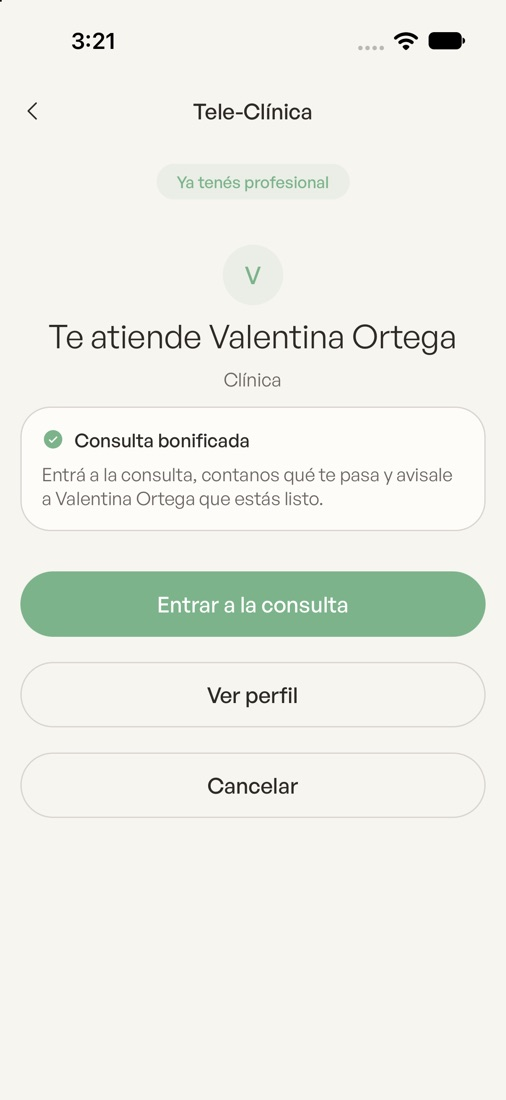
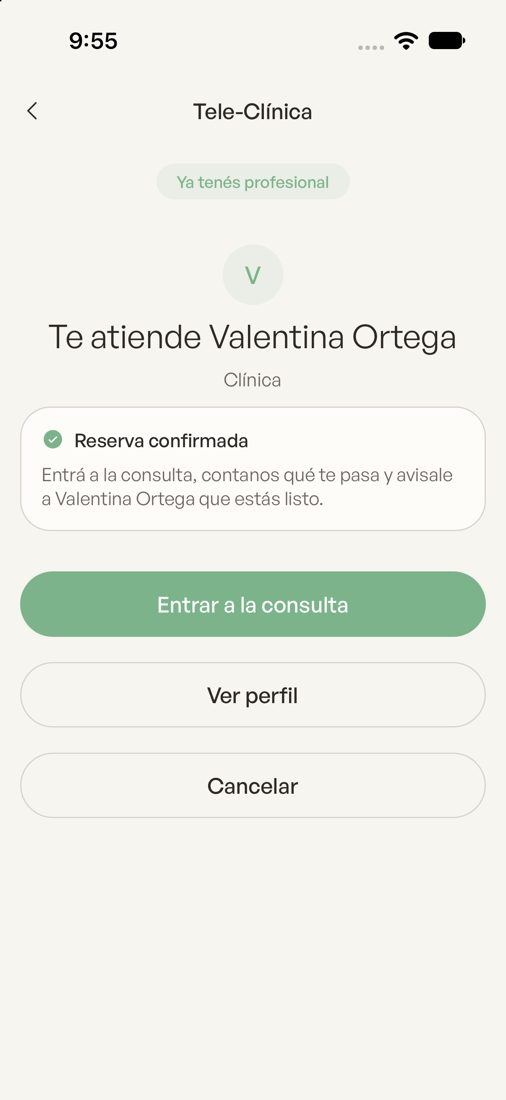
docs(teleclinica): capturas con la reserva real y los detalles ya arreglados
Claude-Session: https://claude.ai/code/session_01PvWM724CxrJ2Hebw8LCkz5

diff --git a/public/docs/healthier-teleclinica.html b/public/docs/healthier-teleclinica.html
@@ -354,12 +354,12 @@ h2.st .ad{color:var(--danger)}
     <div class="txt">
       <div class="who-row"><span class="role pac">Paciente · app</span></div>
       <h2 class="st">Te atiende<br>la <span class="a">Dra.</span></h2>
-      <p class="lead">Apenas un profesional acepta, la pantalla cambia sola: <strong>"Te atiende Valentina Ortega"</strong>, con su foto (o sus iniciales si no cargó una) y la especialidad. De ahí puede entrar a la consulta, ver el perfil o cancelar.</p>
+      <p class="lead">Apenas un profesional acepta, se reserva la plata y la pantalla cambia sola: <strong>"Te atiende Valentina Ortega"</strong>, con su foto (o sus iniciales si no cargó una), la especialidad y <strong>"Reserva confirmada"</strong>. De ahí puede entrar a la consulta, ver el perfil o cancelar —y si cancela, la reserva se libera.</p>
       <ul class="bl">
         <li><span class="bi">↻</span><span>Si recarga la página, vuelve a esta misma pantalla.</span></li>
       </ul>
     </div>
-    <div class="shot"><img src="screenshots-teleclinica/tc-pac-08-te-atiende.jpg" alt="Te atiende Valentina Ortega"><span class="cap"><b>Te atiende</b>Entrar a la consulta · Ver perfil · Cancelar. Capturada como consulta bonificada: ese día los pagos de prueba no respondían.</span></div>
+    <div class="shot"><img src="screenshots-teleclinica/tc-pac-08-te-atiende.jpg" alt="Te atiende Valentina Ortega"><span class="cap"><b>Te atiende</b>"Reserva confirmada" · Entrar · Ver perfil · Cancelar</span></div>
   </div>
 </section>
 
@@ -402,12 +402,12 @@ h2.st .ad{color:var(--danger)}
       <h2 class="st">Si nadie acepta,<br>no se <span class="a">cobra.</span></h2>
       <p class="lead">Cuando terminan los 4 minutos sin que nadie acepte: <strong>"Nadie pudo atenderte ahora. No te cobramos nada."</strong> Puede seguir buscando o volver al inicio. La tarjeta no se tocó.</p>
       <ul class="bl">
-        <li><span class="bi">↻</span><span>Si sigue buscando después de que venció, se le pide de nuevo el código de seguridad: los datos de la tarjeta se borran al vencer.</span></li>
+        <li><span class="bi">↻</span><span>"Seguir buscando" vuelve a buscar con la misma tarjeta, sin pedir el código de nuevo, hasta 20 minutos desde que pidió.</span></li>
       </ul>
     </div>
     <div class="shots">
       <div class="shot"><img src="screenshots-teleclinica/tc-pac-05-nadie.jpg" alt="Nadie pudo atenderte ahora"><span class="cap"><b>Sin respuesta</b>Seguir buscando · Volver al inicio</span></div>
-      <div class="shot"><img src="screenshots-teleclinica/tc-pac-06-seguir.jpg" alt="Volvé a ingresar el código de tu tarjeta"><span class="cap"><b>Seguir buscando</b>Pide el código otra vez</span></div>
+      <div class="shot"><img src="screenshots-teleclinica/tc-pac-06-seguir.jpg" alt="Buscando de nuevo"><span class="cap"><b>Seguir buscando</b>Otra vuelta de 4 minutos, misma tarjeta</span></div>
     </div>
   </div>
 </section>
@@ -424,7 +424,7 @@ h2.st .ad{color:var(--danger)}
       </ul>
     </div>
     <div class="shots par">
-      <div class="shot"><img src="screenshots-teleclinica/tc-pac-07-rechazada.jpg" alt="Tarjeta rechazada en la app"><span class="cap"><b>App</b>"Elegí otra tarjeta"</span></div>
+      <div class="shot"><img src="screenshots-teleclinica/tc-pac-07-rechazada.jpg" alt="Tarjeta rechazada en la app"><span class="cap"><b>App</b>El motivo, en castellano, y "Elegí otra tarjeta"</span></div>
       <div class="shot web"><img src="screenshots-teleclinica/tc-wpac-04-rechazada.jpg" alt="Tarjeta rechazada en la web"><span class="cap"><b>Web</b>"Te está esperando"</span></div>
     </div>
   </div>
@@ -501,7 +501,7 @@ h2.st .ad{color:var(--danger)}
   <div class="content wide">
     <div class="who-row"><span class="role pro">Profesional · web y app</span></div>
     <h2 class="st">Tomó la consulta,<br>pero la tarjeta <span class="ad">no pasó.</span></h2>
-    <p class="lead">La consulta ya es suya y queda en su lista, pero sin confirmar. Le llega el aviso <strong>"La tarjeta del paciente fue rechazada: le pedimos otra y te avisamos."</strong> Cuando el paciente paga con otra tarjeta, la consulta se confirma sola; si cancela, se cancela.</p>
+    <p class="lead">La consulta ya es suya y queda en su lista, pero sin confirmar. Le aparece el aviso <strong>"La tarjeta del paciente fue rechazada: le pedimos otra y te avisamos."</strong> Cuando el paciente paga con otra tarjeta, la consulta se confirma sola; si cancela, se cancela.</p>
     <div class="shot web"><img src="screenshots-teleclinica/tc-wpro-03-rechazo.jpg" alt="Aviso de tarjeta rechazada al profesional"><span class="cap"><b>Aviso</b>"Le pedimos otra y te avisamos"</span></div>
   </div>
 </section>
@@ -572,13 +572,10 @@ h2.st .ad{color:var(--danger)}
   <div class="content wide">
     <span class="eyebrow danger">Lo que falta antes de producción</span>
     <h2 class="st">Hoy vive<br>en <span class="ad">staging.</span></h2>
-    <p class="lead">Esto es lo que quedó abierto, más lo que apareció al capturar este documento:</p>
+    <p class="lead">Los detalles que aparecieron al armar este documento ya están arreglados en staging. Queda:</p>
     <div class="fg three">
       <div class="fc"><span class="n d">Decisión</span><h3>El paso a producción</h3><p>Falta el OK. Producción sigue con el modelo de elegir del pool.</p></div>
-      <div class="fc"><span class="n d">Aviso</span><h3>"Tarjeta rechazada" se pierde</h3><p>Al profesional le aparece y enseguida lo tapa "Nueva reserva de…". Tampoco le queda una marca de "esperando el pago" en su lista.</p></div>
-      <div class="fc"><span class="n d">Mensajes</span><h3>Errores en inglés o en código</h3><p>Al reintentar el pago el paciente puede ver textos como "Card Token not found" o "internal_error" tal cual.</p></div>
-      <div class="fc"><span class="n g">Búsqueda</span><h3>Seguir buscando pide el código</h3><p>Pasado el minuto del vencimiento, la tarjeta se borra y hay que cargar el código de nuevo.</p></div>
-      <div class="fc"><span class="n g">Detalles</span><h3>Copy y estrellas</h3><p>"llegue preparado" para una doctora; en el perfil web las estrellas salen vacías con 5.0; en la app "autorizar.." con dos puntos.</p></div>
+      <div class="fc"><span class="n g">Profesional</span><h3>Una marca de "esperando el pago"</h3><p>Si la tarjeta se rechaza, hoy se entera por el aviso del momento; en su lista no queda una marca que lo diga.</p></div>
       <div class="fc"><span class="n l">A decidir</span><h3>Médico de cabecera y obras sociales</h3><p>El link de un médico ya no lo elige: le suena a todos. Y no existe el dato de qué obras sociales acepta cada profesional.</p></div>
     </div>
   </div>
